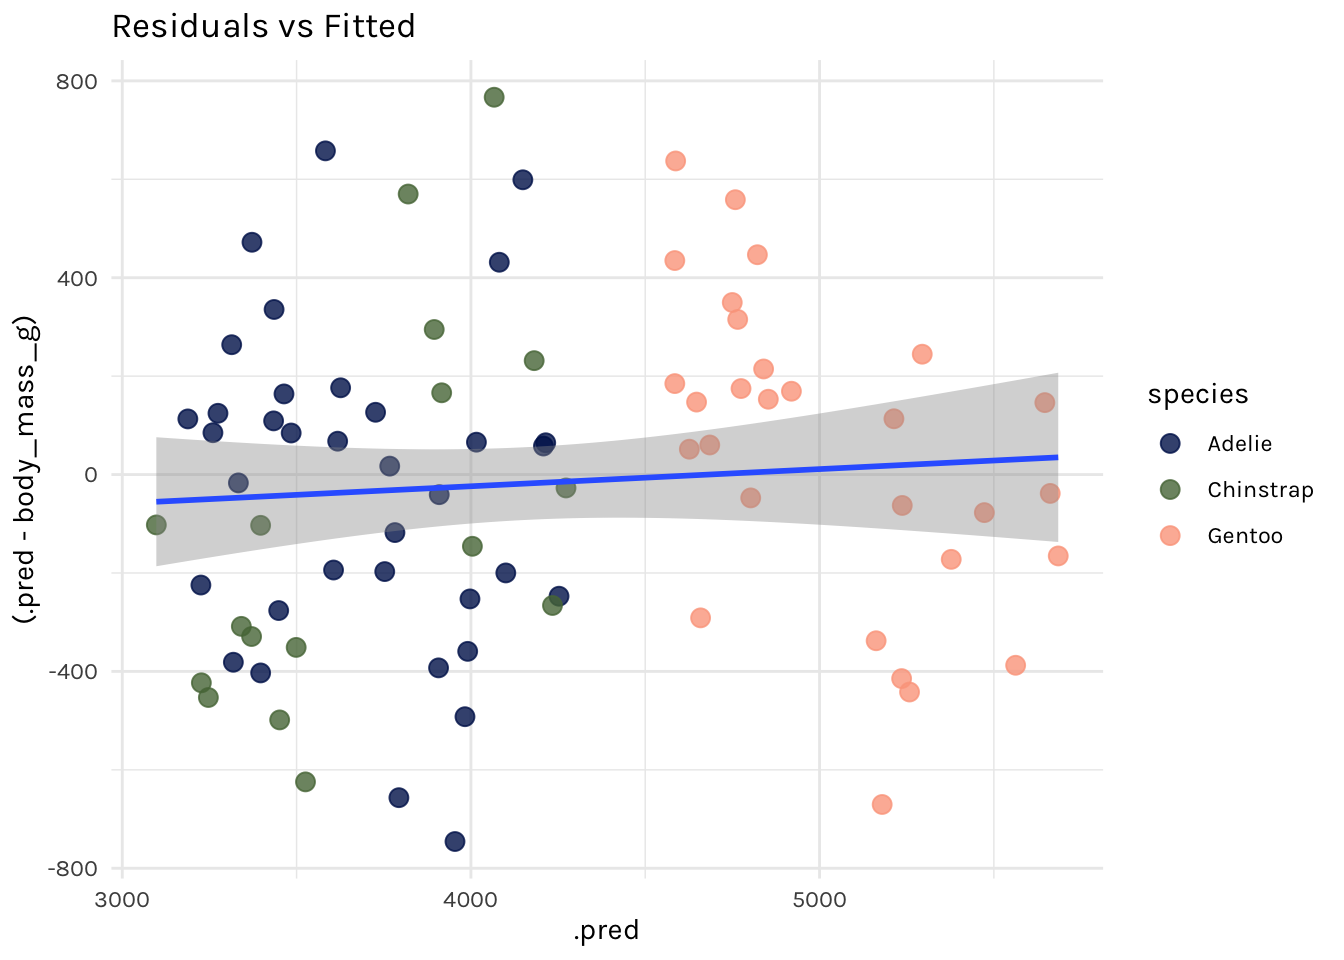
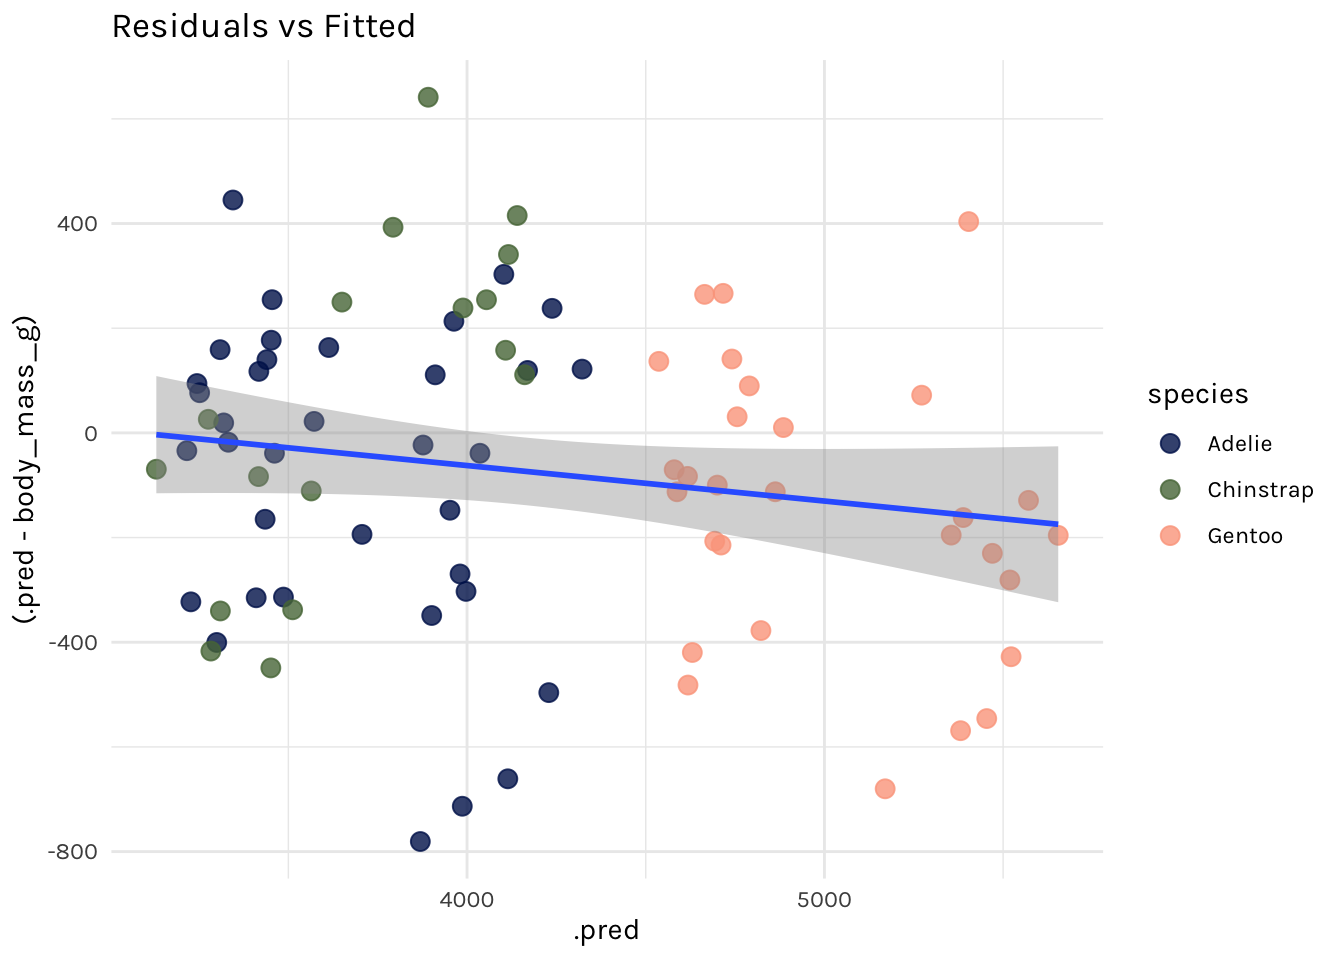
update penguin meta data again

diff --git a/content/post/2020-02-27-better-tidymodels/index.html b/content/post/2020-02-27-better-tidymodels/index.html
@@ -7,8 +7,7 @@ categories:
   - tidymodels
 tags:
   - tidymodels
-summary: Cross-validation with tidymodels used to be sad, now it is better.
-lastmod: '2020-02-20T14:29:04-08:00'
+summary: Taking a sad script and making it better for model cross-validation.
 featured: no
 disable_jquery: no
 image:
@@ -202,7 +201,7 @@ lm_spec %&gt;%
 #&gt; # A tibble: 1 x 3
 #&gt;   .metric .estimator .estimate
 #&gt;   &lt;chr&gt;   &lt;chr&gt;          &lt;dbl&gt;
-#&gt; 1 rmse    standard        334.</code></pre>
+#&gt; 1 rmse    standard        303.</code></pre>
 </div>
 <div id="fitting-the-model-with-a-function" class="section level2">
 <h2><span class="header-section-number">5.5</span> Fitting the model with a function</h2>
@@ -228,7 +227,7 @@ get_rmse(model_spec = lm_spec, split = penguin_split)
 #&gt; # A tibble: 1 x 3
 #&gt;   .metric .estimator .estimate
 #&gt;   &lt;chr&gt;   &lt;chr&gt;          &lt;dbl&gt;
-#&gt; 1 rmse    standard        334.</code></pre>
+#&gt; 1 rmse    standard        303.</code></pre>
 <p>I could also build up a tibble that includes the results, if I wanted to save the predicted values, for example:</p>
 <pre class="r"><code>get_preds &lt;- function(model_spec, split){
   
@@ -262,7 +261,7 @@ penguin_preds %&gt;%
 #&gt; # A tibble: 1 x 3
 #&gt;   .metric .estimator .estimate
 #&gt;   &lt;chr&gt;   &lt;chr&gt;          &lt;dbl&gt;
-#&gt; 1 rmse    standard        334.</code></pre>
+#&gt; 1 rmse    standard        303.</code></pre>
 <p>Or I could fit a regression tree model with a new model spec:</p>
 <pre class="r"><code># regression tree model spec
 rt_spec &lt;-
@@ -278,7 +277,7 @@ get_preds(model_spec = rt_spec,
 #&gt; # A tibble: 1 x 3
 #&gt;   .metric .estimator .estimate
 #&gt;   &lt;chr&gt;   &lt;chr&gt;          &lt;dbl&gt;
-#&gt; 1 rmse    standard        345.</code></pre>
+#&gt; 1 rmse    standard        322.</code></pre>
 <p>Or a random forest:</p>
 <pre class="r"><code># random forest model spec
 rf_spec &lt;-
@@ -294,7 +293,7 @@ get_preds(model_spec = rf_spec,
 #&gt; # A tibble: 1 x 3
 #&gt;   .metric .estimator .estimate
 #&gt;   &lt;chr&gt;   &lt;chr&gt;          &lt;dbl&gt;
-#&gt; 1 rmse    standard        326.</code></pre>
+#&gt; 1 rmse    standard        316.</code></pre>
 <p>But, unfortunately, I shouldn’t be predicting with the test set over and over again like this. It isn’t good practice to predict with the test set &gt; 1 time. What is a good predictive modeler to do? I should be saving (holding out) the test set and use it to generate predictions exactly once, at the very end — after I’ve compared different models, selected my features, and tuned my hyperparameters. How do you do this? You do <a href="https://sebastianraschka.com/blog/2016/model-evaluation-selection-part3.html">cross-validation</a> with the training set, and you leave the testing set for <a href="https://tidymodels.github.io/tune/reference/last_fit.html"><em>the very last fit you do</em></a>.</p>
 <p><img src="https://media.giphy.com/media/uwlDAujt3w9mU/giphy.gif" /></p>
 </div>
@@ -366,7 +365,7 @@ get_fold_results(
 #&gt; # A tibble: 1 x 3
 #&gt;    rmse id     preds            
 #&gt;   &lt;dbl&gt; &lt;chr&gt;  &lt;list&gt;           
-#&gt; 1  303. Fold01 &lt;tibble [26 × 7]&gt;</code></pre>
+#&gt; 1  281. Fold01 &lt;tibble [26 × 7]&gt;</code></pre>
 <p>Next, I used purrr- but just once. The function <code>get_fold_results</code> is doing <strong>most</strong> of the work for us, but I needed purrr to map it across each fold.</p>
 <pre class="r"><code>set.seed(0)
 kfold_results &lt;- 
@@ -377,23 +376,23 @@ kfold_results
 #&gt; # A tibble: 10 x 3
 #&gt;     rmse id     preds            
 #&gt;    &lt;dbl&gt; &lt;chr&gt;  &lt;list&gt;           
-#&gt;  1  303. Fold01 &lt;tibble [26 × 7]&gt;
-#&gt;  2  302. Fold02 &lt;tibble [25 × 7]&gt;
-#&gt;  3  290. Fold03 &lt;tibble [25 × 7]&gt;
-#&gt;  4  292. Fold04 &lt;tibble [25 × 7]&gt;
-#&gt;  5  307. Fold05 &lt;tibble [25 × 7]&gt;
-#&gt;  6  307. Fold06 &lt;tibble [25 × 7]&gt;
-#&gt;  7  298. Fold07 &lt;tibble [25 × 7]&gt;
-#&gt;  8  284. Fold08 &lt;tibble [25 × 7]&gt;
-#&gt;  9  320. Fold09 &lt;tibble [25 × 7]&gt;
-#&gt; 10  355. Fold10 &lt;tibble [25 × 7]&gt;</code></pre>
+#&gt;  1  281. Fold01 &lt;tibble [26 × 7]&gt;
+#&gt;  2  320. Fold02 &lt;tibble [25 × 7]&gt;
+#&gt;  3  351. Fold03 &lt;tibble [25 × 7]&gt;
+#&gt;  4  287. Fold04 &lt;tibble [25 × 7]&gt;
+#&gt;  5  381. Fold05 &lt;tibble [25 × 7]&gt;
+#&gt;  6  304. Fold06 &lt;tibble [25 × 7]&gt;
+#&gt;  7  307. Fold07 &lt;tibble [25 × 7]&gt;
+#&gt;  8  303. Fold08 &lt;tibble [25 × 7]&gt;
+#&gt;  9  292. Fold09 &lt;tibble [25 × 7]&gt;
+#&gt; 10  328. Fold10 &lt;tibble [25 × 7]&gt;</code></pre>
 <p>Here we are still left with 10 RMSE values- one for each of the 10 folds. We don’t care too much about by fold- the power is in the aggregate. Specifically, we mainly care about the central tendency and spread of these RMSE values. Let’s finish by combining (or aggregating) these metrics.</p>
 <pre class="r"><code>kfold_results %&gt;% 
   summarize(mean_rmse = mean(rmse), sd_rmse = sd(rmse))
 #&gt; # A tibble: 1 x 2
 #&gt;   mean_rmse sd_rmse
 #&gt;       &lt;dbl&gt;   &lt;dbl&gt;
-#&gt; 1      306.    20.0</code></pre>
+#&gt; 1      315.    30.9</code></pre>
 <p>So, this works. But, can you imagine doing it again? Without errors? Can you imagine teaching it?</p>
 <p><img src="https://media.giphy.com/media/bmGmHZ5khMjN6/giphy.gif" /></p>
 </div>
@@ -429,23 +428,23 @@ penguin_res
 #&gt; # A tibble: 10 x 7
 #&gt;    splits      id     train_set      fit_models  test_set     estimates     rmse
 #&gt;  * &lt;named lis&gt; &lt;chr&gt;  &lt;named list&gt;   &lt;named lis&gt; &lt;named list&gt; &lt;named list&gt; &lt;dbl&gt;
-#&gt;  1 &lt;split [22… Fold01 &lt;tibble [225 … &lt;fit[+]&gt;    &lt;tibble [26… &lt;tibble [26…  303.
-#&gt;  2 &lt;split [22… Fold02 &lt;tibble [226 … &lt;fit[+]&gt;    &lt;tibble [25… &lt;tibble [25…  302.
-#&gt;  3 &lt;split [22… Fold03 &lt;tibble [226 … &lt;fit[+]&gt;    &lt;tibble [25… &lt;tibble [25…  290.
-#&gt;  4 &lt;split [22… Fold04 &lt;tibble [226 … &lt;fit[+]&gt;    &lt;tibble [25… &lt;tibble [25…  292.
-#&gt;  5 &lt;split [22… Fold05 &lt;tibble [226 … &lt;fit[+]&gt;    &lt;tibble [25… &lt;tibble [25…  307.
-#&gt;  6 &lt;split [22… Fold06 &lt;tibble [226 … &lt;fit[+]&gt;    &lt;tibble [25… &lt;tibble [25…  307.
-#&gt;  7 &lt;split [22… Fold07 &lt;tibble [226 … &lt;fit[+]&gt;    &lt;tibble [25… &lt;tibble [25…  298.
-#&gt;  8 &lt;split [22… Fold08 &lt;tibble [226 … &lt;fit[+]&gt;    &lt;tibble [25… &lt;tibble [25…  284.
-#&gt;  9 &lt;split [22… Fold09 &lt;tibble [226 … &lt;fit[+]&gt;    &lt;tibble [25… &lt;tibble [25…  320.
-#&gt; 10 &lt;split [22… Fold10 &lt;tibble [226 … &lt;fit[+]&gt;    &lt;tibble [25… &lt;tibble [25…  355.
+#&gt;  1 &lt;split [22… Fold01 &lt;tibble [225 … &lt;fit[+]&gt;    &lt;tibble [26… &lt;tibble [26…  281.
+#&gt;  2 &lt;split [22… Fold02 &lt;tibble [226 … &lt;fit[+]&gt;    &lt;tibble [25… &lt;tibble [25…  320.
+#&gt;  3 &lt;split [22… Fold03 &lt;tibble [226 … &lt;fit[+]&gt;    &lt;tibble [25… &lt;tibble [25…  351.
+#&gt;  4 &lt;split [22… Fold04 &lt;tibble [226 … &lt;fit[+]&gt;    &lt;tibble [25… &lt;tibble [25…  287.
+#&gt;  5 &lt;split [22… Fold05 &lt;tibble [226 … &lt;fit[+]&gt;    &lt;tibble [25… &lt;tibble [25…  381.
+#&gt;  6 &lt;split [22… Fold06 &lt;tibble [226 … &lt;fit[+]&gt;    &lt;tibble [25… &lt;tibble [25…  304.
+#&gt;  7 &lt;split [22… Fold07 &lt;tibble [226 … &lt;fit[+]&gt;    &lt;tibble [25… &lt;tibble [25…  307.
+#&gt;  8 &lt;split [22… Fold08 &lt;tibble [226 … &lt;fit[+]&gt;    &lt;tibble [25… &lt;tibble [25…  303.
+#&gt;  9 &lt;split [22… Fold09 &lt;tibble [226 … &lt;fit[+]&gt;    &lt;tibble [25… &lt;tibble [25…  292.
+#&gt; 10 &lt;split [22… Fold10 &lt;tibble [226 … &lt;fit[+]&gt;    &lt;tibble [25… &lt;tibble [25…  328.
 
 penguin_res %&gt;% 
   summarise(mean_rmse = mean(rmse), sd_rmse = sd(rmse))
 #&gt; # A tibble: 1 x 2
 #&gt;   mean_rmse sd_rmse
 #&gt;       &lt;dbl&gt;   &lt;dbl&gt;
-#&gt; 1      306.    20.0</code></pre>
+#&gt; 1      315.    30.9</code></pre>
 </div>
 <div id="the-purrr-mash-up" class="section level2">
 <h2><span class="header-section-number">6.3</span> The purrr mash-up</h2>
@@ -533,23 +532,23 @@ penguin_purrr
 #&gt; # A tibble: 10 x 5
 #&gt;    splits           id     rt_fits      rt_preds          rt_rmse
 #&gt;  * &lt;named list&gt;     &lt;chr&gt;  &lt;named list&gt; &lt;named list&gt;        &lt;dbl&gt;
-#&gt;  1 &lt;split [225/26]&gt; Fold01 &lt;fit[+]&gt;     &lt;tibble [26 × 7]&gt;    303.
-#&gt;  2 &lt;split [226/25]&gt; Fold02 &lt;fit[+]&gt;     &lt;tibble [25 × 7]&gt;    302.
-#&gt;  3 &lt;split [226/25]&gt; Fold03 &lt;fit[+]&gt;     &lt;tibble [25 × 7]&gt;    290.
-#&gt;  4 &lt;split [226/25]&gt; Fold04 &lt;fit[+]&gt;     &lt;tibble [25 × 7]&gt;    292.
-#&gt;  5 &lt;split [226/25]&gt; Fold05 &lt;fit[+]&gt;     &lt;tibble [25 × 7]&gt;    307.
-#&gt;  6 &lt;split [226/25]&gt; Fold06 &lt;fit[+]&gt;     &lt;tibble [25 × 7]&gt;    307.
-#&gt;  7 &lt;split [226/25]&gt; Fold07 &lt;fit[+]&gt;     &lt;tibble [25 × 7]&gt;    298.
-#&gt;  8 &lt;split [226/25]&gt; Fold08 &lt;fit[+]&gt;     &lt;tibble [25 × 7]&gt;    284.
-#&gt;  9 &lt;split [226/25]&gt; Fold09 &lt;fit[+]&gt;     &lt;tibble [25 × 7]&gt;    320.
-#&gt; 10 &lt;split [226/25]&gt; Fold10 &lt;fit[+]&gt;     &lt;tibble [25 × 7]&gt;    355.</code></pre>
+#&gt;  1 &lt;split [225/26]&gt; Fold01 &lt;fit[+]&gt;     &lt;tibble [26 × 7]&gt;    281.
+#&gt;  2 &lt;split [226/25]&gt; Fold02 &lt;fit[+]&gt;     &lt;tibble [25 × 7]&gt;    320.
+#&gt;  3 &lt;split [226/25]&gt; Fold03 &lt;fit[+]&gt;     &lt;tibble [25 × 7]&gt;    351.
+#&gt;  4 &lt;split [226/25]&gt; Fold04 &lt;fit[+]&gt;     &lt;tibble [25 × 7]&gt;    287.
+#&gt;  5 &lt;split [226/25]&gt; Fold05 &lt;fit[+]&gt;     &lt;tibble [25 × 7]&gt;    381.
+#&gt;  6 &lt;split [226/25]&gt; Fold06 &lt;fit[+]&gt;     &lt;tibble [25 × 7]&gt;    304.
+#&gt;  7 &lt;split [226/25]&gt; Fold07 &lt;fit[+]&gt;     &lt;tibble [25 × 7]&gt;    307.
+#&gt;  8 &lt;split [226/25]&gt; Fold08 &lt;fit[+]&gt;     &lt;tibble [25 × 7]&gt;    303.
+#&gt;  9 &lt;split [226/25]&gt; Fold09 &lt;fit[+]&gt;     &lt;tibble [25 × 7]&gt;    292.
+#&gt; 10 &lt;split [226/25]&gt; Fold10 &lt;fit[+]&gt;     &lt;tibble [25 × 7]&gt;    328.</code></pre>
 <p>Finally, summarizing as I did before:</p>
 <pre class="r"><code>penguin_purrr %&gt;% 
   summarize(mean_rmse = mean(rt_rmse), sd_rmse = sd(rt_rmse))
 #&gt; # A tibble: 1 x 2
 #&gt;   mean_rmse sd_rmse
 #&gt;       &lt;dbl&gt;   &lt;dbl&gt;
-#&gt; 1      306.    20.0</code></pre>
+#&gt; 1      315.    30.9</code></pre>
 <p>In practice, if you did all these at once instead of incrementally, it would look like:</p>
 <pre class="r"><code>set.seed(0)
 penguin_folds %&gt;% 
@@ -566,16 +565,16 @@ penguin_folds %&gt;%
 #&gt; # A tibble: 10 x 5
 #&gt;    splits           id     rt_fits      rt_preds          rt_rmse
 #&gt;  * &lt;named list&gt;     &lt;chr&gt;  &lt;named list&gt; &lt;named list&gt;        &lt;dbl&gt;
-#&gt;  1 &lt;split [225/26]&gt; Fold01 &lt;fit[+]&gt;     &lt;tibble [26 × 7]&gt;    303.
-#&gt;  2 &lt;split [226/25]&gt; Fold02 &lt;fit[+]&gt;     &lt;tibble [25 × 7]&gt;    302.
-#&gt;  3 &lt;split [226/25]&gt; Fold03 &lt;fit[+]&gt;     &lt;tibble [25 × 7]&gt;    290.
-#&gt;  4 &lt;split [226/25]&gt; Fold04 &lt;fit[+]&gt;     &lt;tibble [25 × 7]&gt;    292.
-#&gt;  5 &lt;split [226/25]&gt; Fold05 &lt;fit[+]&gt;     &lt;tibble [25 × 7]&gt;    307.
-#&gt;  6 &lt;split [226/25]&gt; Fold06 &lt;fit[+]&gt;     &lt;tibble [25 × 7]&gt;    307.
-#&gt;  7 &lt;split [226/25]&gt; Fold07 &lt;fit[+]&gt;     &lt;tibble [25 × 7]&gt;    298.
-#&gt;  8 &lt;split [226/25]&gt; Fold08 &lt;fit[+]&gt;     &lt;tibble [25 × 7]&gt;    284.
-#&gt;  9 &lt;split [226/25]&gt; Fold09 &lt;fit[+]&gt;     &lt;tibble [25 × 7]&gt;    320.
-#&gt; 10 &lt;split [226/25]&gt; Fold10 &lt;fit[+]&gt;     &lt;tibble [25 × 7]&gt;    355.</code></pre>
+#&gt;  1 &lt;split [225/26]&gt; Fold01 &lt;fit[+]&gt;     &lt;tibble [26 × 7]&gt;    281.
+#&gt;  2 &lt;split [226/25]&gt; Fold02 &lt;fit[+]&gt;     &lt;tibble [25 × 7]&gt;    320.
+#&gt;  3 &lt;split [226/25]&gt; Fold03 &lt;fit[+]&gt;     &lt;tibble [25 × 7]&gt;    351.
+#&gt;  4 &lt;split [226/25]&gt; Fold04 &lt;fit[+]&gt;     &lt;tibble [25 × 7]&gt;    287.
+#&gt;  5 &lt;split [226/25]&gt; Fold05 &lt;fit[+]&gt;     &lt;tibble [25 × 7]&gt;    381.
+#&gt;  6 &lt;split [226/25]&gt; Fold06 &lt;fit[+]&gt;     &lt;tibble [25 × 7]&gt;    304.
+#&gt;  7 &lt;split [226/25]&gt; Fold07 &lt;fit[+]&gt;     &lt;tibble [25 × 7]&gt;    307.
+#&gt;  8 &lt;split [226/25]&gt; Fold08 &lt;fit[+]&gt;     &lt;tibble [25 × 7]&gt;    303.
+#&gt;  9 &lt;split [226/25]&gt; Fold09 &lt;fit[+]&gt;     &lt;tibble [25 × 7]&gt;    292.
+#&gt; 10 &lt;split [226/25]&gt; Fold10 &lt;fit[+]&gt;     &lt;tibble [25 × 7]&gt;    328.</code></pre>
 <p>When you put it like <em>that</em>, it doesn’t look like so much work! But, this way hides how much work it takes to write those 3 custom functions: <code>get_fits()</code>, <code>get_preds()</code>, and <code>get_rmse()</code>. And we still had to use vanilla <code>map()</code>, <code>map2()</code>, <em>and</em> <code>map2_dbl()</code>.</p>
 </div>
 </div>
@@ -617,8 +616,8 @@ penguin_folds %&gt;%
 #&gt; # A tibble: 2 x 5
 #&gt;   .metric .estimator    mean     n std_err
 #&gt;   &lt;chr&gt;   &lt;chr&gt;        &lt;dbl&gt; &lt;int&gt;   &lt;dbl&gt;
-#&gt; 1 rmse    standard   306.       10  6.31  
-#&gt; 2 rsq     standard     0.869    10  0.0112</code></pre>
+#&gt; 1 rmse    standard   315.       10  9.78  
+#&gt; 2 rsq     standard     0.854    10  0.0210</code></pre>
 <p>To see the predictions, we need to add use <a href="https://tidymodels.github.io/tune/reference/control_grid.html"><code>control_resamples()</code></a>:</p>
 <pre class="r"><code>penguin_party &lt;-
   tune::fit_resamples(
@@ -633,16 +632,16 @@ penguin_folds %&gt;%
 #&gt; # A tibble: 251 x 4
 #&gt;    id     .pred  .row body_mass_g
 #&gt;    &lt;chr&gt;  &lt;dbl&gt; &lt;int&gt;       &lt;dbl&gt;
-#&gt;  1 Fold01 3392.     4        3200
-#&gt;  2 Fold01 3392.    11        3400
-#&gt;  3 Fold01 4004.    14        3550
-#&gt;  4 Fold01 3392.    41        3600
-#&gt;  5 Fold01 4004.    54        3900
-#&gt;  6 Fold01 3392.    65        3400
-#&gt;  7 Fold01 4004.    70        4100
-#&gt;  8 Fold01 4004.    71        4725
-#&gt;  9 Fold01 3392.    76        3825
-#&gt; 10 Fold01 4004.    85        3875
+#&gt;  1 Fold01 3407.     4        3450
+#&gt;  2 Fold01 3994.    11        4500
+#&gt;  3 Fold01 3994.    14        3600
+#&gt;  4 Fold01 3994.    41        4400
+#&gt;  5 Fold01 3994.    54        3900
+#&gt;  6 Fold01 3994.    65        4450
+#&gt;  7 Fold01 3994.    70        4100
+#&gt;  8 Fold01 3407.    71        3075
+#&gt;  9 Fold01 3407.    76        3825
+#&gt; 10 Fold01 3994.    85        3500
 #&gt; # … with 241 more rows</code></pre>
 <p>Now, isn’t that better?</p>
 <p><img src="https://media.giphy.com/media/daeKl3P4SissU/giphy.gif" /><!-- --></p>
